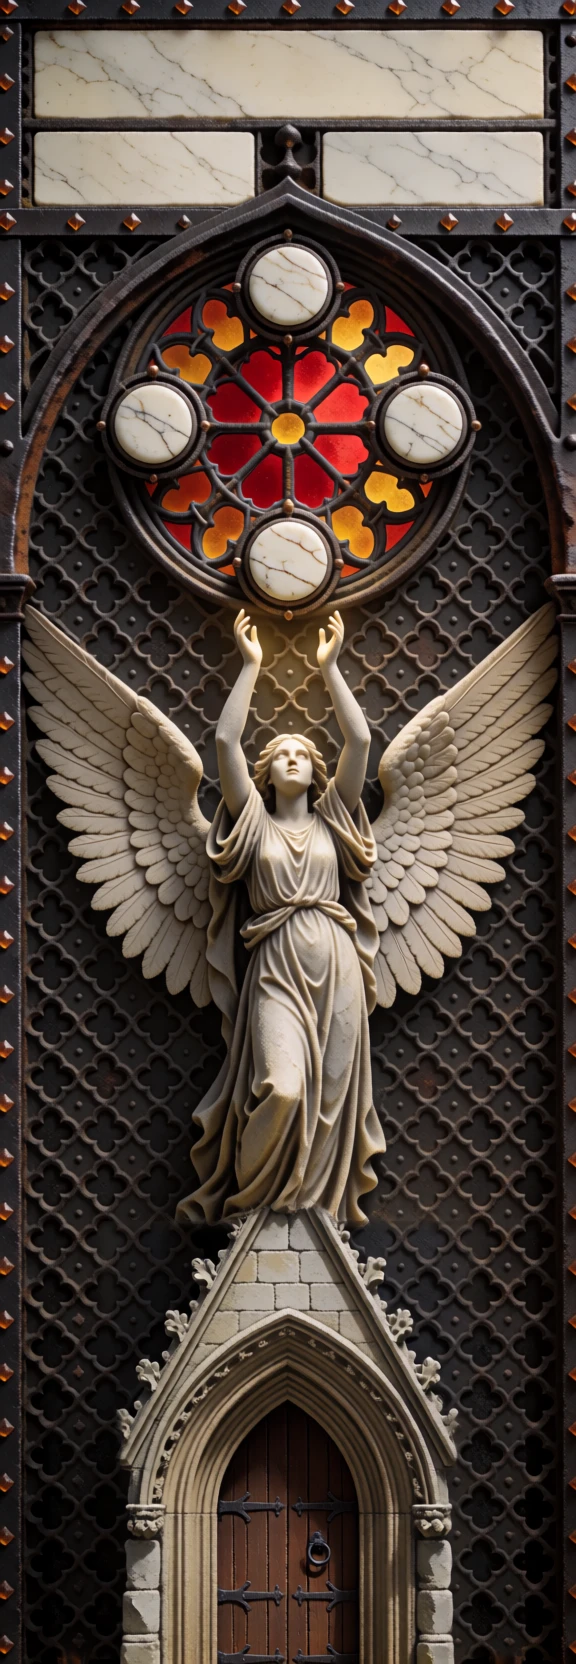
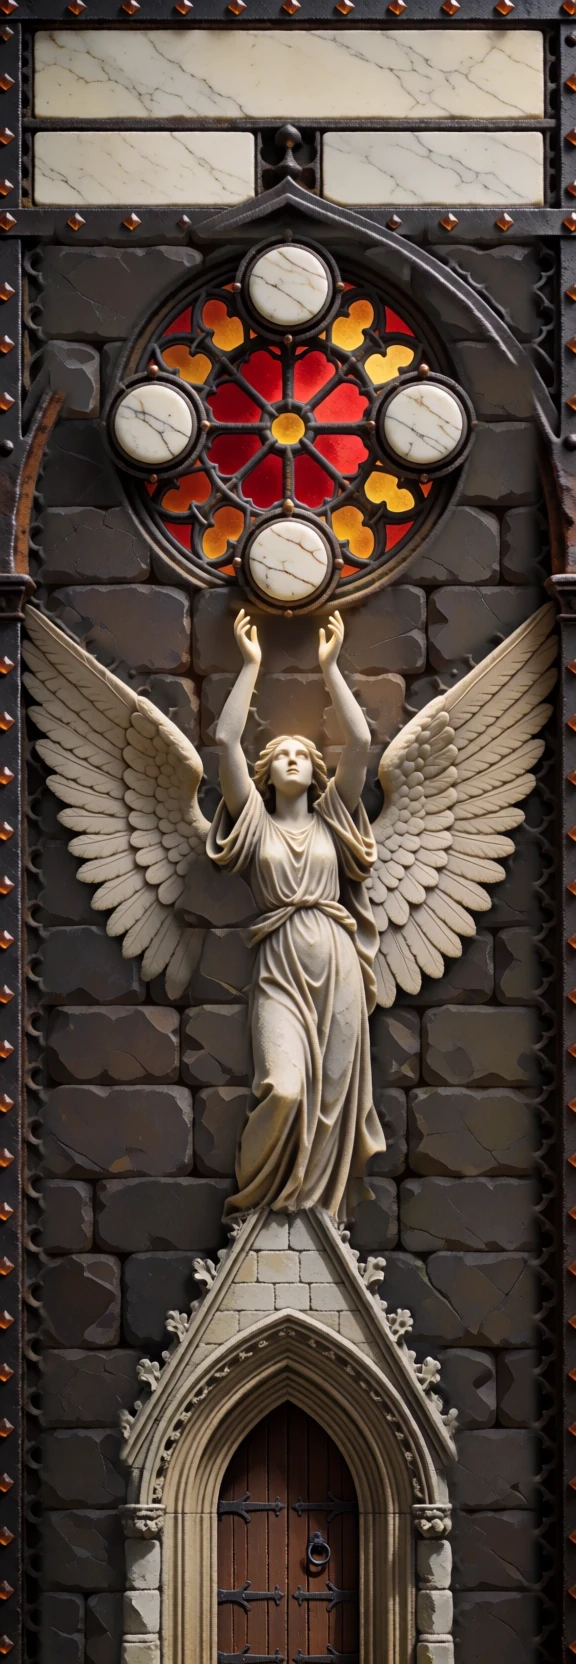
Jilliath's Capitol column in masonry to match the garrison: the lattice repainted by mask, the angel, window and portal kept

Changed region(s): [[0.0625, 0.125, 0.9375, 0.4688], [0.0625, 0.5, 0.4375, 1.0], [0.5938, 0.5, 0.9375, 1.0]]

diff --git a/scripts/art/hud-inpaint.ts b/scripts/art/hud-inpaint.ts
@@ -115,6 +115,27 @@ const REPAIRS: Readonly<Record<string, Repair>> = {
     prompt:
       "Game interface art, a wall of large old dressed stone blocks seen straight on, warm dark grey, weathered, in deep shadow, plain, with no pattern on it. No lattice. No text, no letters.",
   },
+  /** The lattice still between the angel's raised arms (the glow made it read as coloured to the mask), a box between them only. */
+  "jilliath-capitol-stone-arms": {
+    source: "art/candidates/ui/inpaint/jilliath-capitol-stone-rest2/jilliath-capitol-stone-rest2-d95-2.png",
+    page: [300, 864],
+    boxes: [[138, 334, 32, 50]],
+    denoise: [0.85, 0.95],
+    depth: { map: "art/greybox/jilliath-capitol-stone/depth.png", strength: 0.8 },
+    prompt:
+      "Game interface art, a wall of large old dressed stone blocks seen straight on, warm dark grey, weathered, plain, with no pattern on it, softly lit by a warm golden glow from above. No lattice. No text, no letters.",
+  },
+  /** The lattice just outside the angel's raised arms, masked to the lattice (`rest.py`, the flanks line in its doc). */
+  "jilliath-capitol-stone-flanks": {
+    source: "art/candidates/ui/inpaint/jilliath-capitol-stone-arms/jilliath-capitol-stone-arms-d85-1.png",
+    page: [300, 864],
+    boxes: [],
+    mask: "art/greybox/jilliath-capitol-stone/flanks-mask.png",
+    denoise: [0.85, 0.95],
+    depth: { map: "art/greybox/jilliath-capitol-stone/depth.png", strength: 0.8 },
+    prompt:
+      "Game interface art, a wall of large old dressed stone blocks seen straight on, warm dark grey, weathered, plain, with no pattern on it, softly lit by a warm golden glow from above. No lattice. No text, no letters.",
+  },
   /** The duel bar's figures: arms and hands came out malformed (the user, 2026-10-10). */
   "duel-hands": {
     source: "art/candidates/ui/paint-in/battle-bar-duel-dull-nostone/battle-bar-duel-dull-nostone-3.png",

diff --git a/art/greybox/jilliath-capitol-stone/rest.py b/art/greybox/jilliath-capitol-stone/rest.py
@@ -1,28 +1,31 @@
 """The stone column's last lattice (between the angel's arms, beside her head, at the gable's shoulders), as a mask that
 follows the lattice: dark, unsaturated ground in those zones, kept a few pixels clear of anything bright. For the
-`jilliath-capitol-stone-rest2` repair, from `jilliath-capitol-stone-rest` d88-2.
+`jilliath-capitol-stone-rest2` and `-flanks` repairs; a glow-lit patch counts only where it is also bright.
 
-    python art/greybox/jilliath-capitol-stone/rest.py
+    python art/greybox/jilliath-capitol-stone/rest.py <source> <mask name> x0,y0,x1,y1 ...
+    (rest2: rest-d88-2 rest-mask.png 100,300,205,410 60,600,108,700 192,600,242,700;
+     flanks: arms-d85-1 flanks-mask.png 92,320,132,400 168,320,210,400)
 """
+import sys
 from pathlib import Path
 
 import numpy as np
 from PIL import Image, ImageFilter
 
 S = 576 / 300
-SOURCE = Path("art/candidates/ui/inpaint/jilliath-capitol-stone-rest/jilliath-capitol-stone-rest-d88-2.png")
-ZONES = [(100, 300, 205, 410), (60, 600, 108, 700), (192, 600, 242, 700)]
+SOURCE = Path(sys.argv[1])
+ZONES = [tuple(int(v) for v in z.split(",")) for z in sys.argv[3:]]
 
 src = Image.open(SOURCE).convert("RGB")
 soft = np.asarray(src.filter(ImageFilter.GaussianBlur(4))).astype(float)
 lum = soft.mean(axis=2)
 sat = soft.max(axis=2) - soft.min(axis=2)
-bright = Image.fromarray((((lum > 100) | (sat > 34)) * 255).astype(np.uint8)).filter(ImageFilter.MaxFilter(7))
+bright = Image.fromarray((((lum > 125) | ((sat > 34) & (lum > 110))) * 255).astype(np.uint8)).filter(ImageFilter.MaxFilter(7))
 h, w = lum.shape
 yy, xx = np.mgrid[0:h, 0:w]
 zone = np.zeros((h, w), bool)
 for x0, y0, x1, y1 in ZONES:
     zone |= (xx >= x0 * S) & (xx < x1 * S) & (yy >= y0 * S) & (yy < y1 * S)
 mask = zone & ~(np.asarray(bright) > 0)
-Image.fromarray((mask * 255).astype(np.uint8)).filter(ImageFilter.GaussianBlur(2)).save(Path(__file__).parent / "rest-mask.png")
+Image.fromarray((mask * 255).astype(np.uint8)).filter(ImageFilter.GaussianBlur(2)).save(Path(__file__).parent / sys.argv[2])
 print("ok")

diff --git a/docs/status.md b/docs/status.md
@@ -47,7 +47,7 @@ check its exit code, not a grep of its output); `pnpm sizes` for any interface c
    Jilliath's Capitol paint-in: round 1 rejected ("no soul or character"), reverted; round 4 from the user's sketch
    and idea (round buttons on a rose window, a stone angel channelling them, a leave symbol button), the column first
    (`shots/jilliath-capitol-6.html`): the user picked the inpainted rendition; the door is the way out.
-   The garrison wall painted the same way (`shots/jilliath-garrison.html`).
+   The garrison wall painted the same way, both now in masonry (`shots/jilliath-garrison-2.html`).
    **Mana is one kind** (the user's call; `testing/mana-colours`, `decisions.md`): one number per player, the faction's
    colour only its accent. Save 35.
 1. **Finish Jilliath's concepts** with the user (the open nine), then portraits from the picks.

diff --git a/docs/design/hud-pieces.md b/docs/design/hud-pieces.md
@@ -770,3 +770,7 @@ material". Looked again at `d2-city-garrison`, `d2-capital-empire`, `d2-hero-inv
 - **Stone shows its masonry:** chunky weathered blocks at the bottom of the screens, irregular, warm grey, in shadow.
 So: the ground of a wall is large weathered masonry in shadow, or plain; iron is for frames, bands and studs; a lattice,
 if any, is an inset; big areas are parchment, marble or pictures.
+- **In stone (2026-10-11):** the garrison repainted whole (`jilliath-garrison-2` seed 2: masonry in shadow, iron only round
+  the windows; the panes stayed three by three). The accepted column kept, its lattice repainted to masonry by mask
+  (`jilliath-capitol-stone` d82-1, then `-rest` d88-2, `-arms` d85-1 and `-flanks` d85-1 for what remained by the
+  angel's arms and the gable). `shots/jilliath-garrison-2.html`.

diff --git a/assets/ui/SOURCES.md b/assets/ui/SOURCES.md
@@ -36,5 +36,5 @@ removed outright.
 ## Jilliath's skin (2026-10-11, the `hud-paint-in` skill, on the judged greybox layout)
 | File | Piece, seed | Cut |
 |---|---|---|
-| `jilliath/capitol-column.webp` | `jilliath-capitol-column-4`, 4, its base inpainted by `jilliath-capitol-door` d80-3 then `jilliath-capitol-door-edges` d70-2 (`scripts/art/hud-inpaint.ts`) | whole, 576 × 1664 |
+| `jilliath/capitol-column.webp` | `jilliath-capitol-column-4`, 4, its base inpainted by `jilliath-capitol-door` d80-3 and `-door-edges` d70-2, its lattice to masonry by `jilliath-capitol-stone` d82-1, `-rest` d88-2, `-arms` d85-1, `-flanks` d85-1 (`scripts/art/hud-inpaint.ts`) | whole, 576 × 1664 |
 | `jilliath/garrison.webp` | `jilliath-garrison-2`, 2 (masonry, no lattice) | whole, 1728 × 1216 |

diff --git a/.kanban/in-progress/ui-kit-grotesques.md b/.kanban/in-progress/ui-kit-grotesques.md
@@ -291,3 +291,6 @@
 - **The garrison wall (2026-10-11):** lancet windows as the squad grids, stone knights, a crypt, the growth on a hung
   parchment; one round and a pane repair. `shots/jilliath-garrison.html`. Next: the graveyard in the crypt, then the
   research and spells frame.
+- **In stone (2026-10-11):** the user: the diaper "looks like a fence actually, not like gothic architecture". Garrison
+  and column now weathered masonry, iron only on frames (`shots/jilliath-garrison-2.html`). No overworld ambience in
+  the Capitol.
